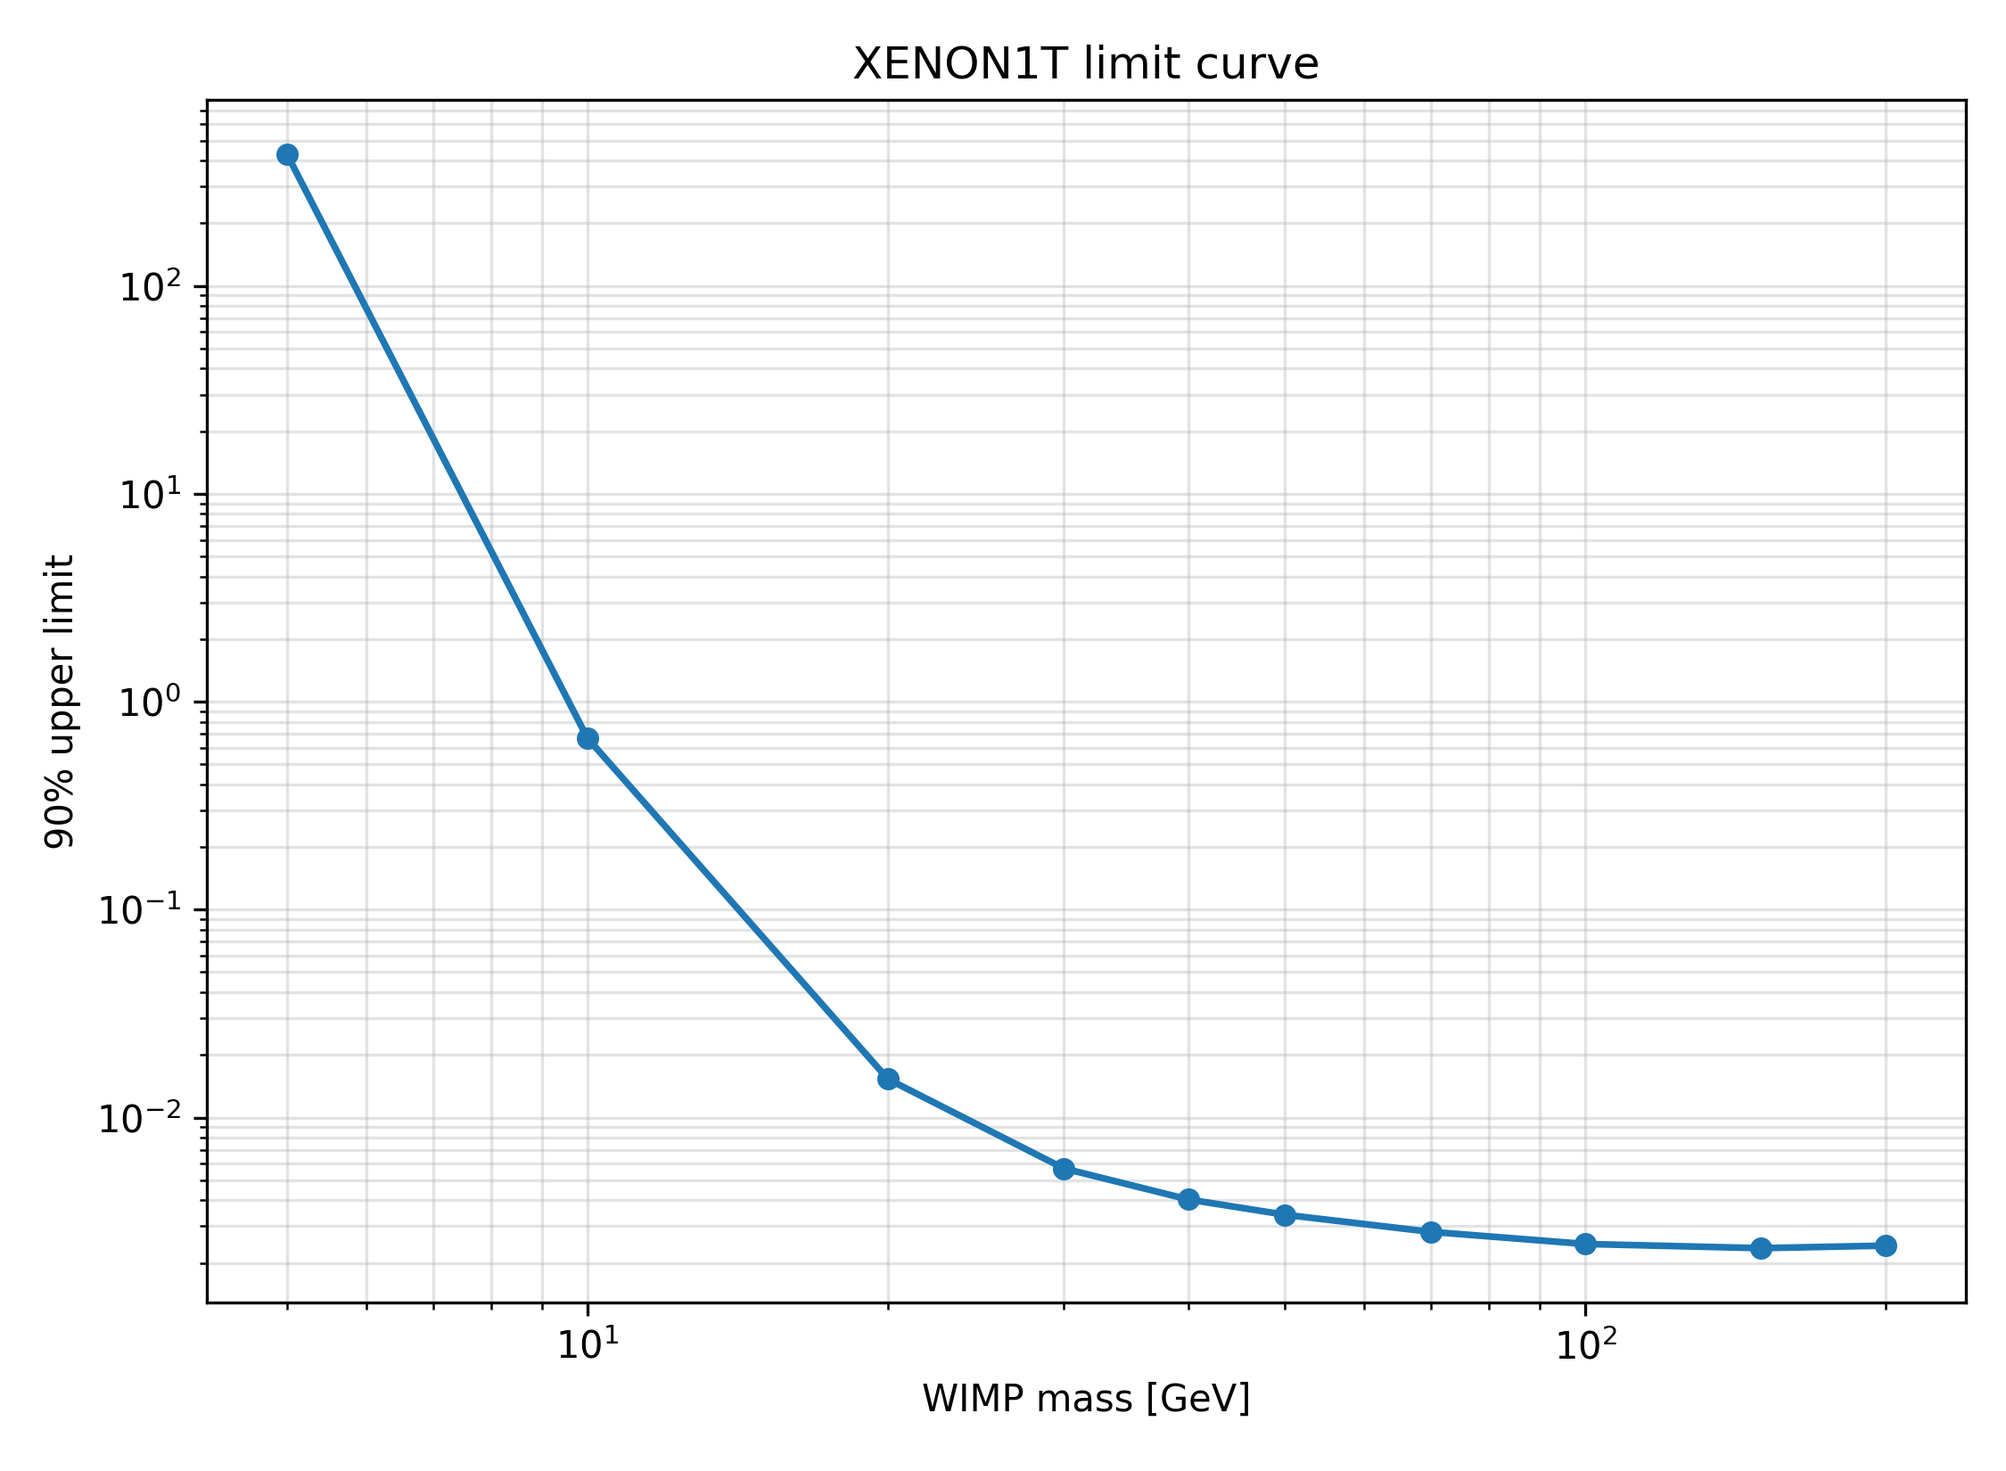
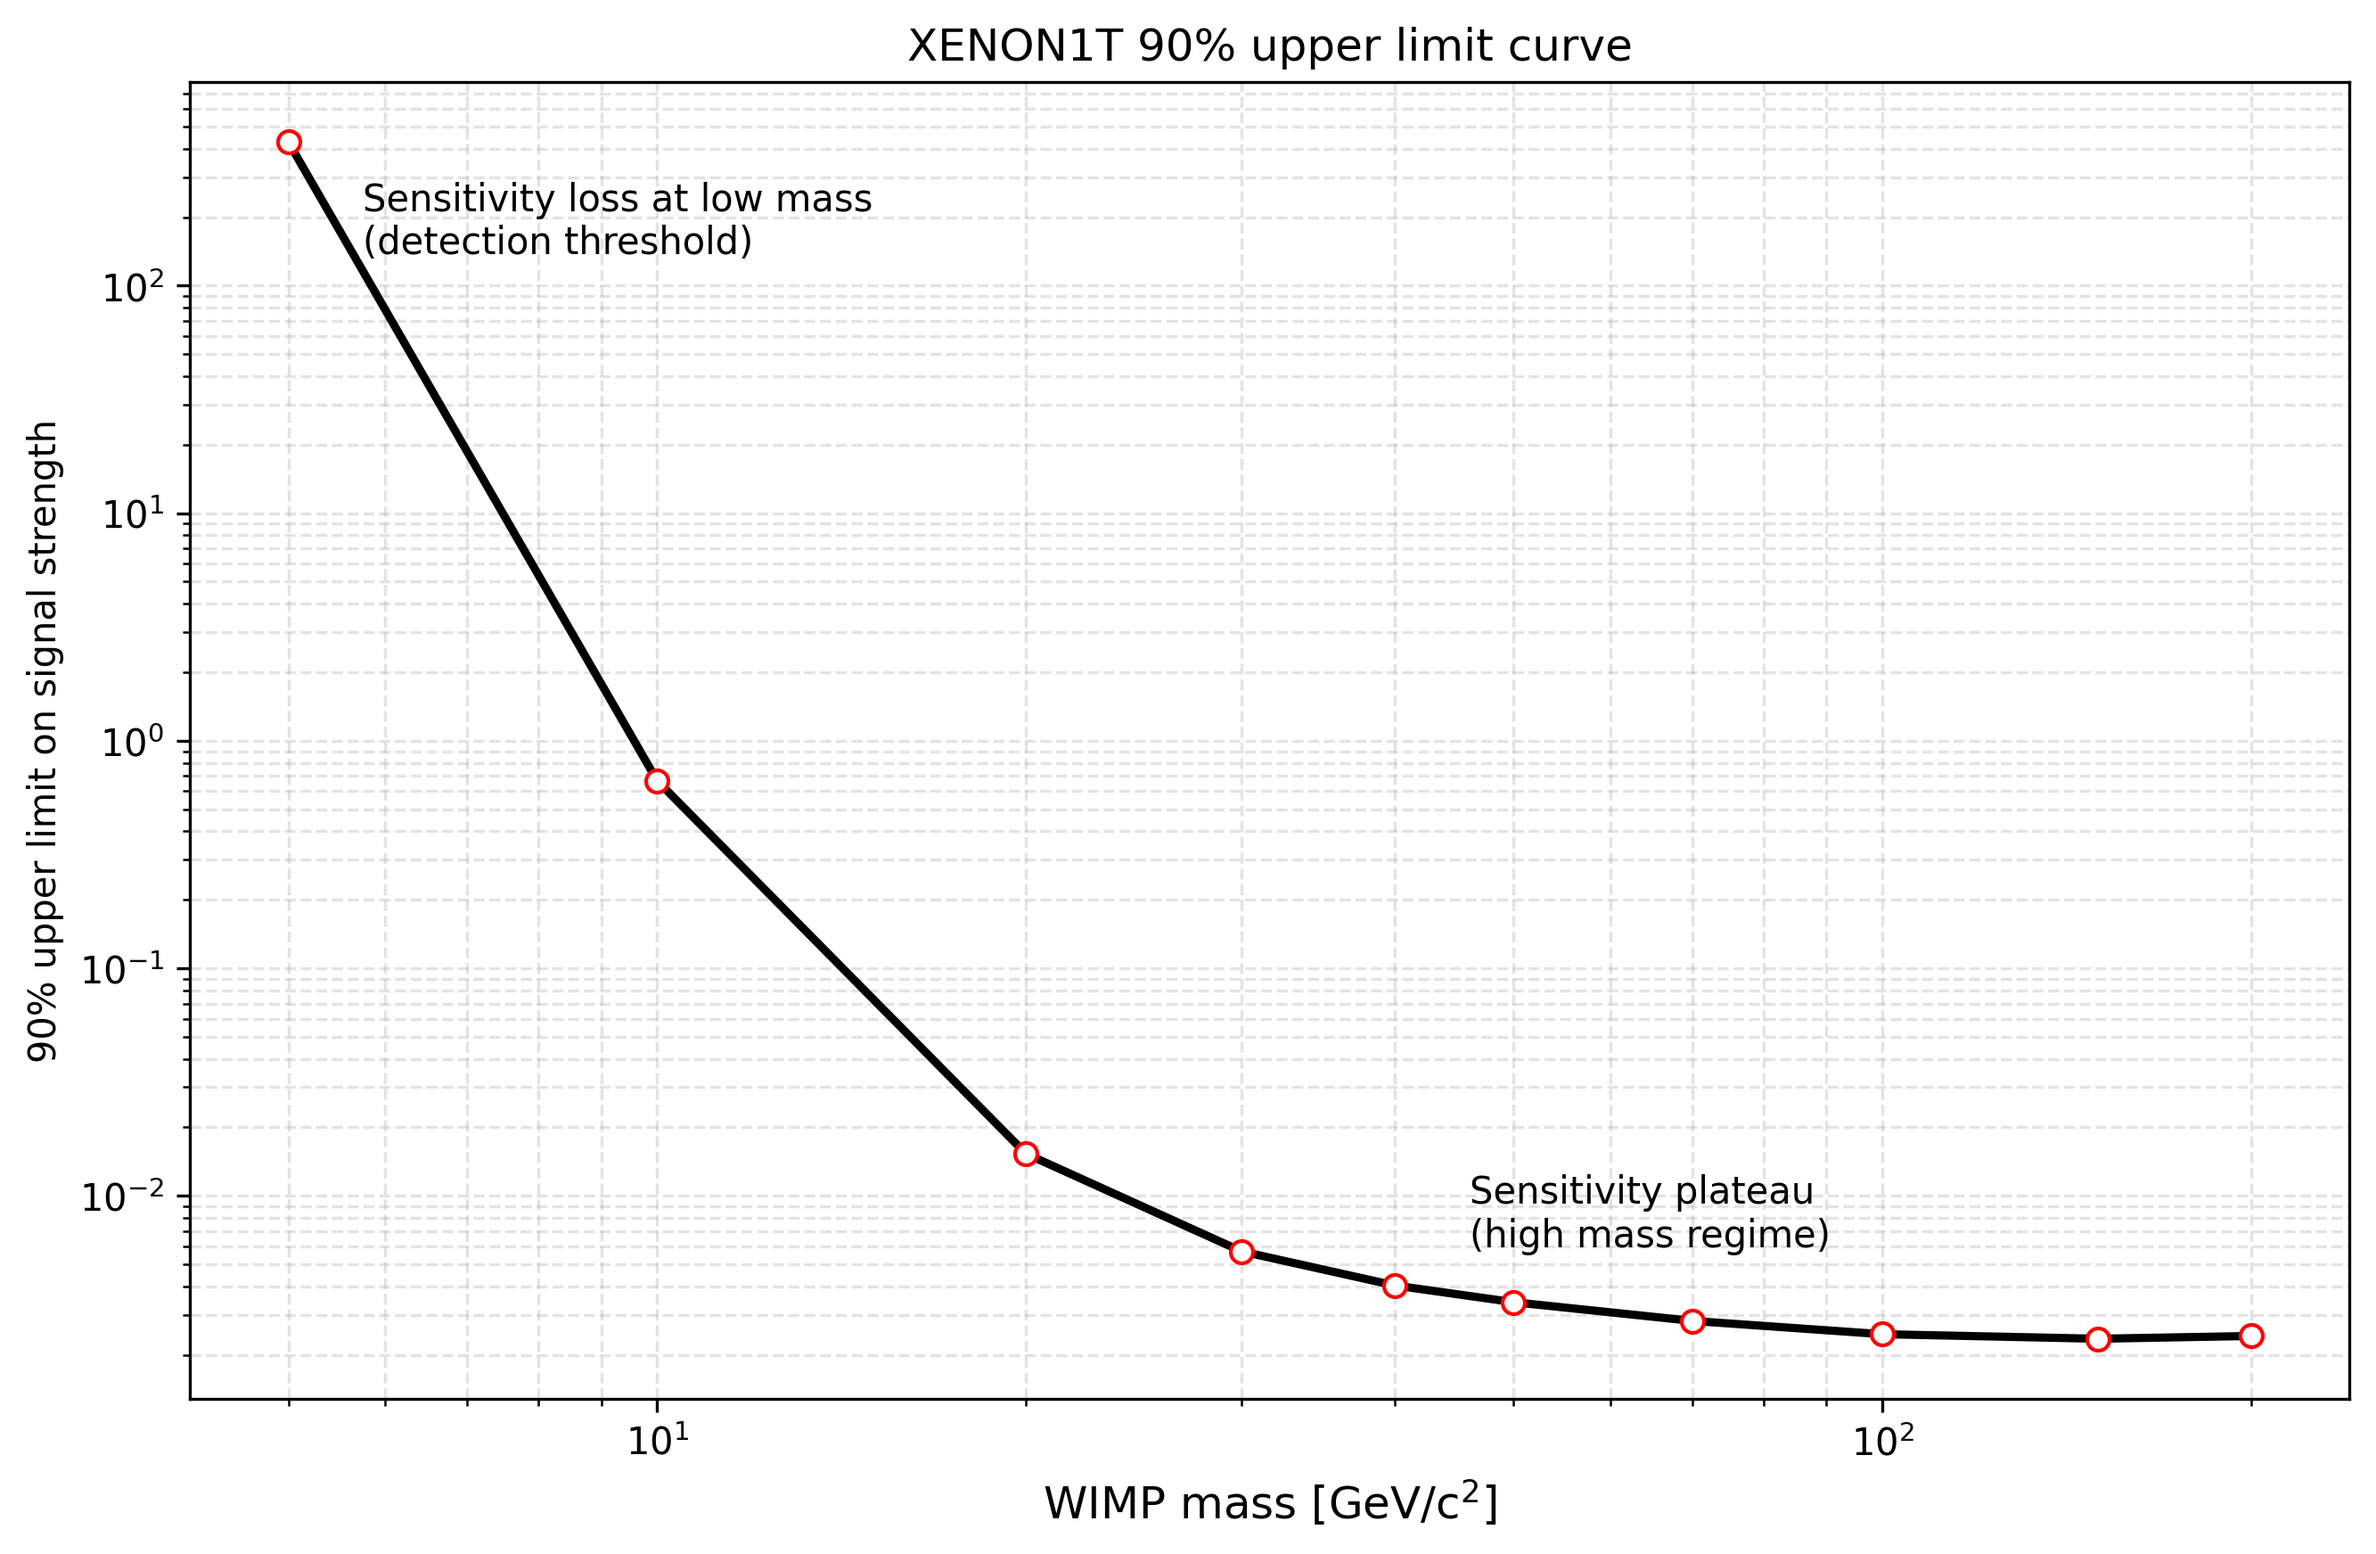
Finalize limit curve plotting and README

Changed region(s): [[0.0, 0.0, 0.9956, 0.9891]]

diff --git a/plot_check/plot_limit_curve.py b/plot_check/plot_limit_curve.py
@@ -1,0 +1,31 @@
+from pathlib import Path
+import pandas as pd
+import matplotlib.pyplot as plt
+
+input=Path("data/processed/limit_curve.csv")
+output=Path("plots/limit_curve.png")
+
+if not input.exists():
+    print(f"Missing input file: {input}")
+    print("insert in (input) actual csv pls, then run this script again.")
+    raise SystemExit
+
+data=pd.read_csv(input,comment="#")
+mass=data["mass_GeV"]
+upper_limit=data["upper_limit"]
+
+plt.figure(figsize=(9,6))
+plt.plot(mass,upper_limit,marker="o",color="black",markerfacecolor="white",markeredgecolor="red",linewidth=2.2,markersize=6)
+plt.xscale("log")
+plt.yscale("log")
+plt.xlabel("WIMP mass [GeV/c$^2$]",fontsize=12)
+plt.ylabel("90% upper limit on signal strength")
+plt.title("XENON1T 90% upper limit curve")
+plt.grid(True,which="both",linestyle="--",alpha=0.35)
+plt.annotate( "Sensitivity plateau\n(high mass regime)", xy=(mass.iloc[6],upper_limit.iloc[6]), xytext=(-60,20),textcoords="offset points",fontsize=10)
+plt.annotate( "Sensitivity loss at low mass\n(detection threshold)", xy=(mass.iloc[0],upper_limit.iloc[0]), xytext=(20,-30),textcoords="offset points",fontsize=10)
+plt.tight_layout()
+plt.savefig(output,dpi=300,bbox_inches="tight")
+
+print(f"Plot saved to {output}")
+plt.show()
